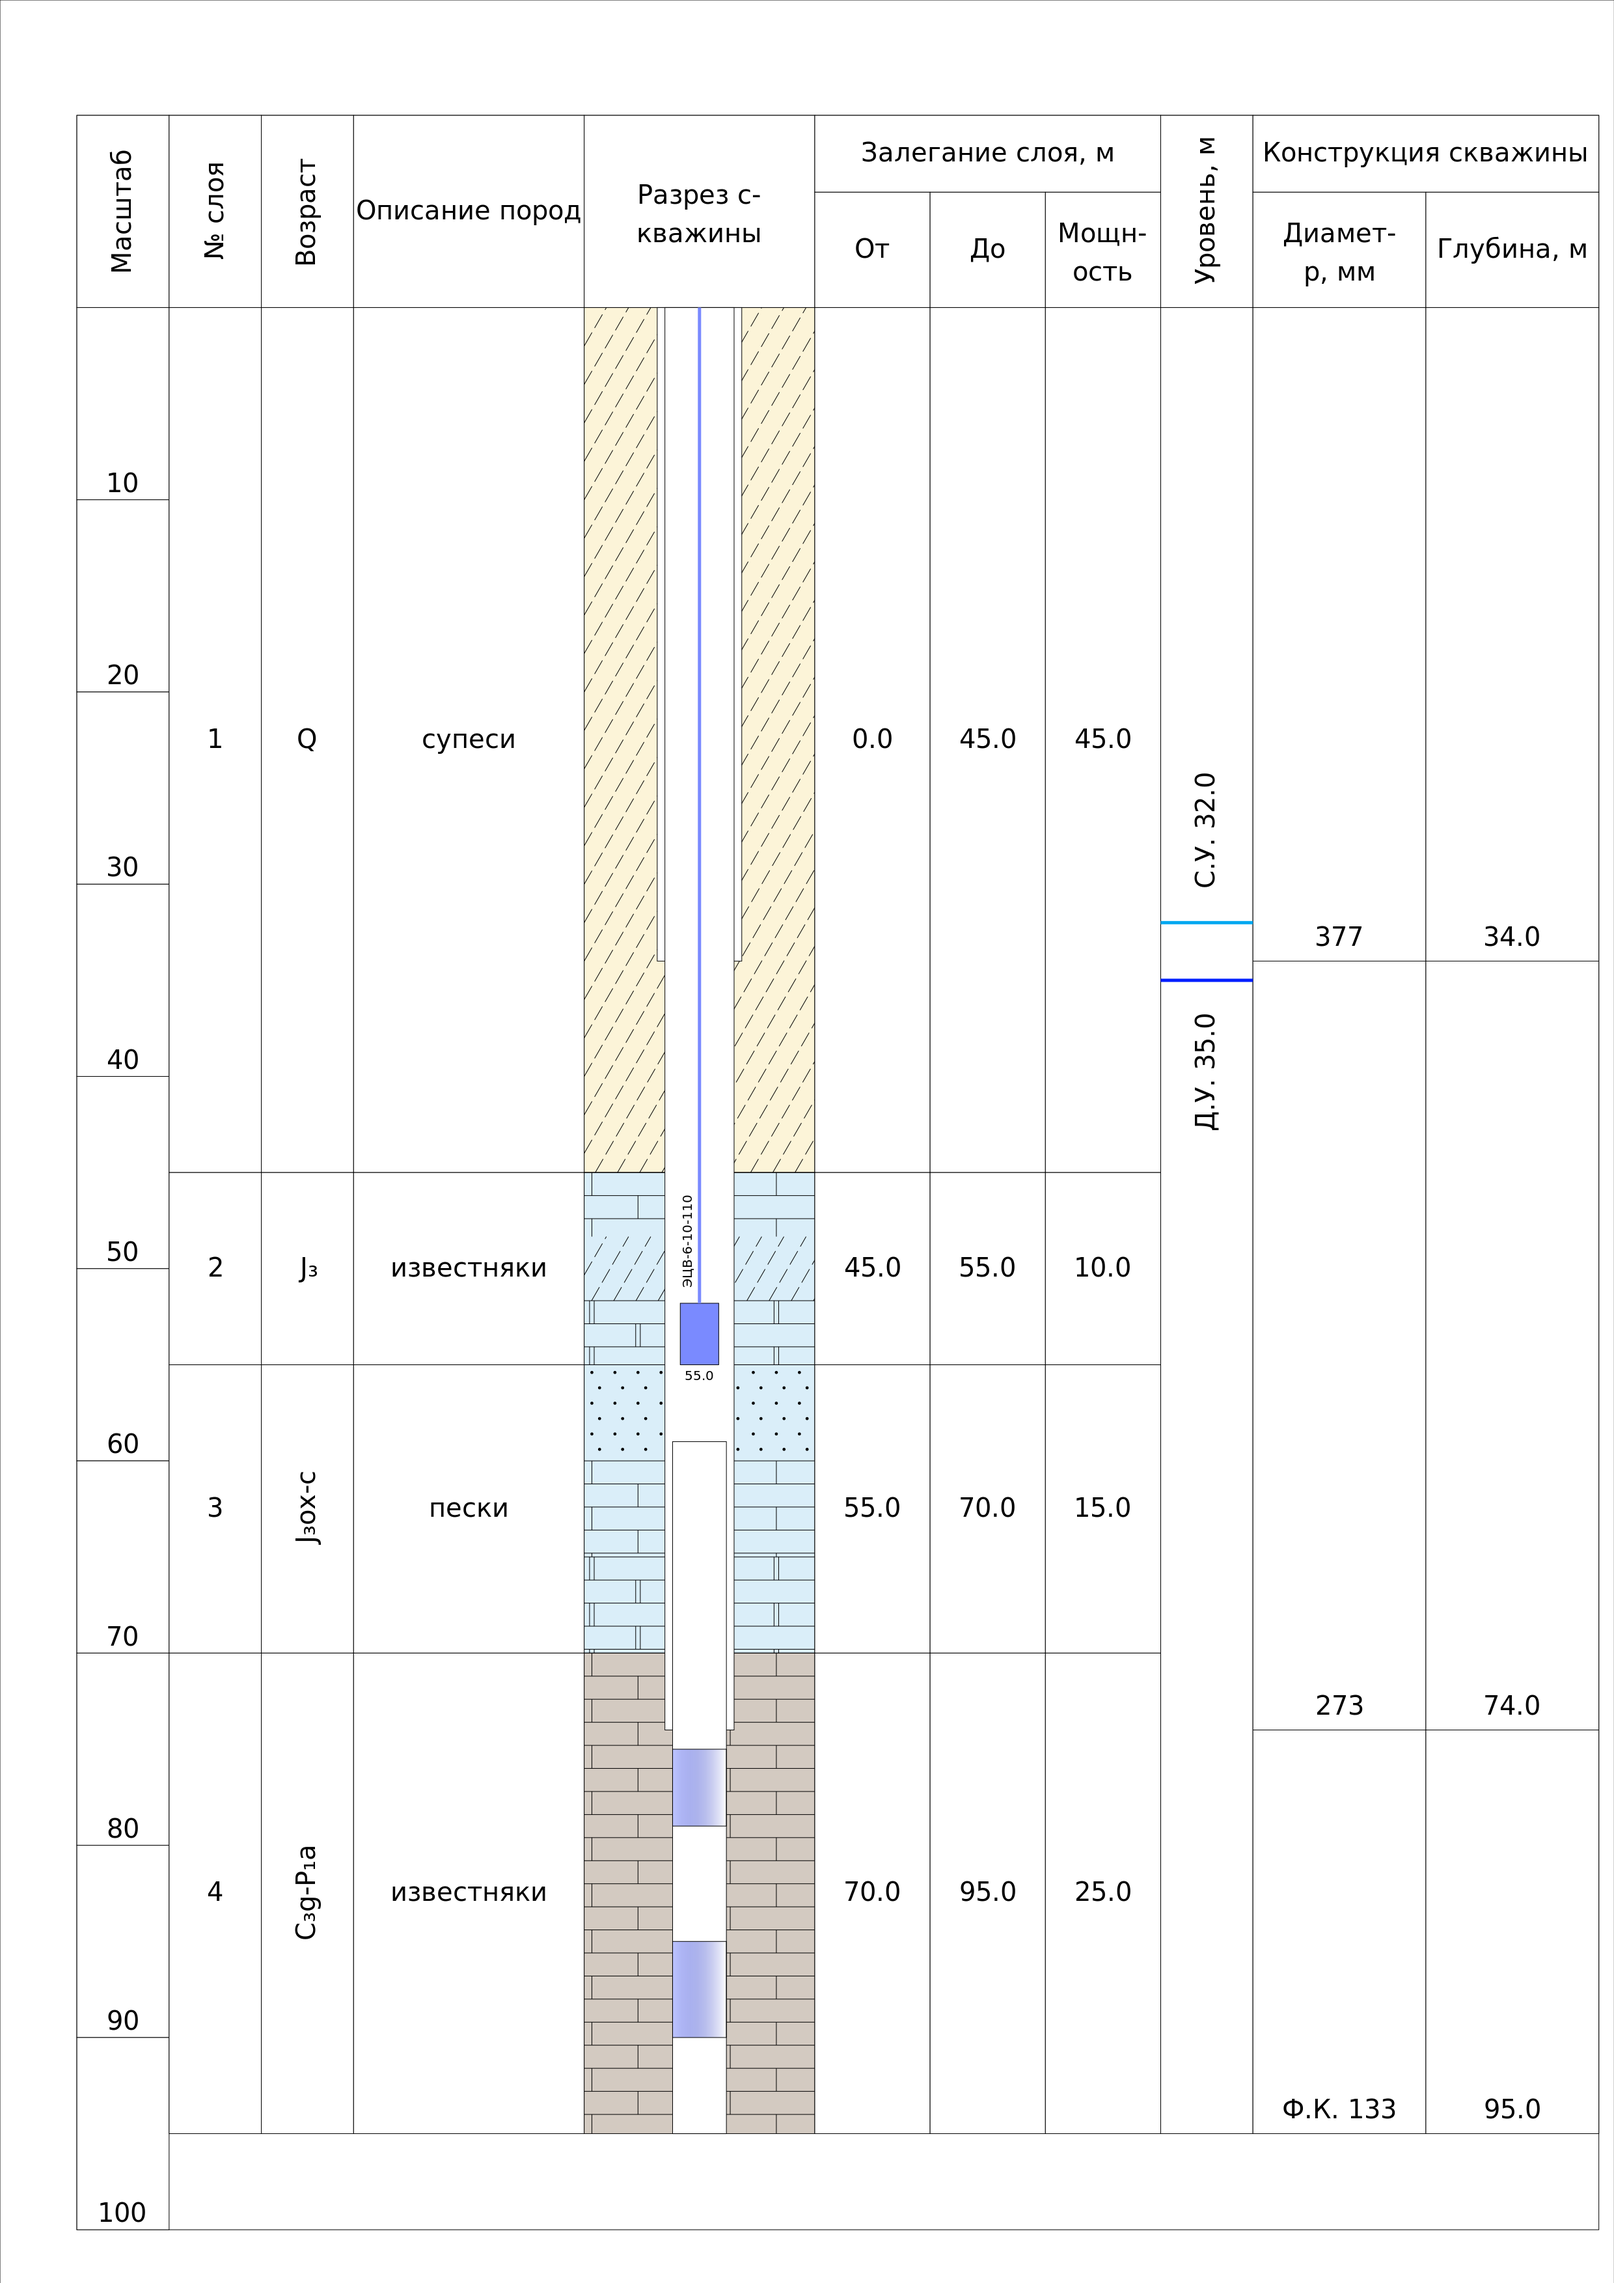
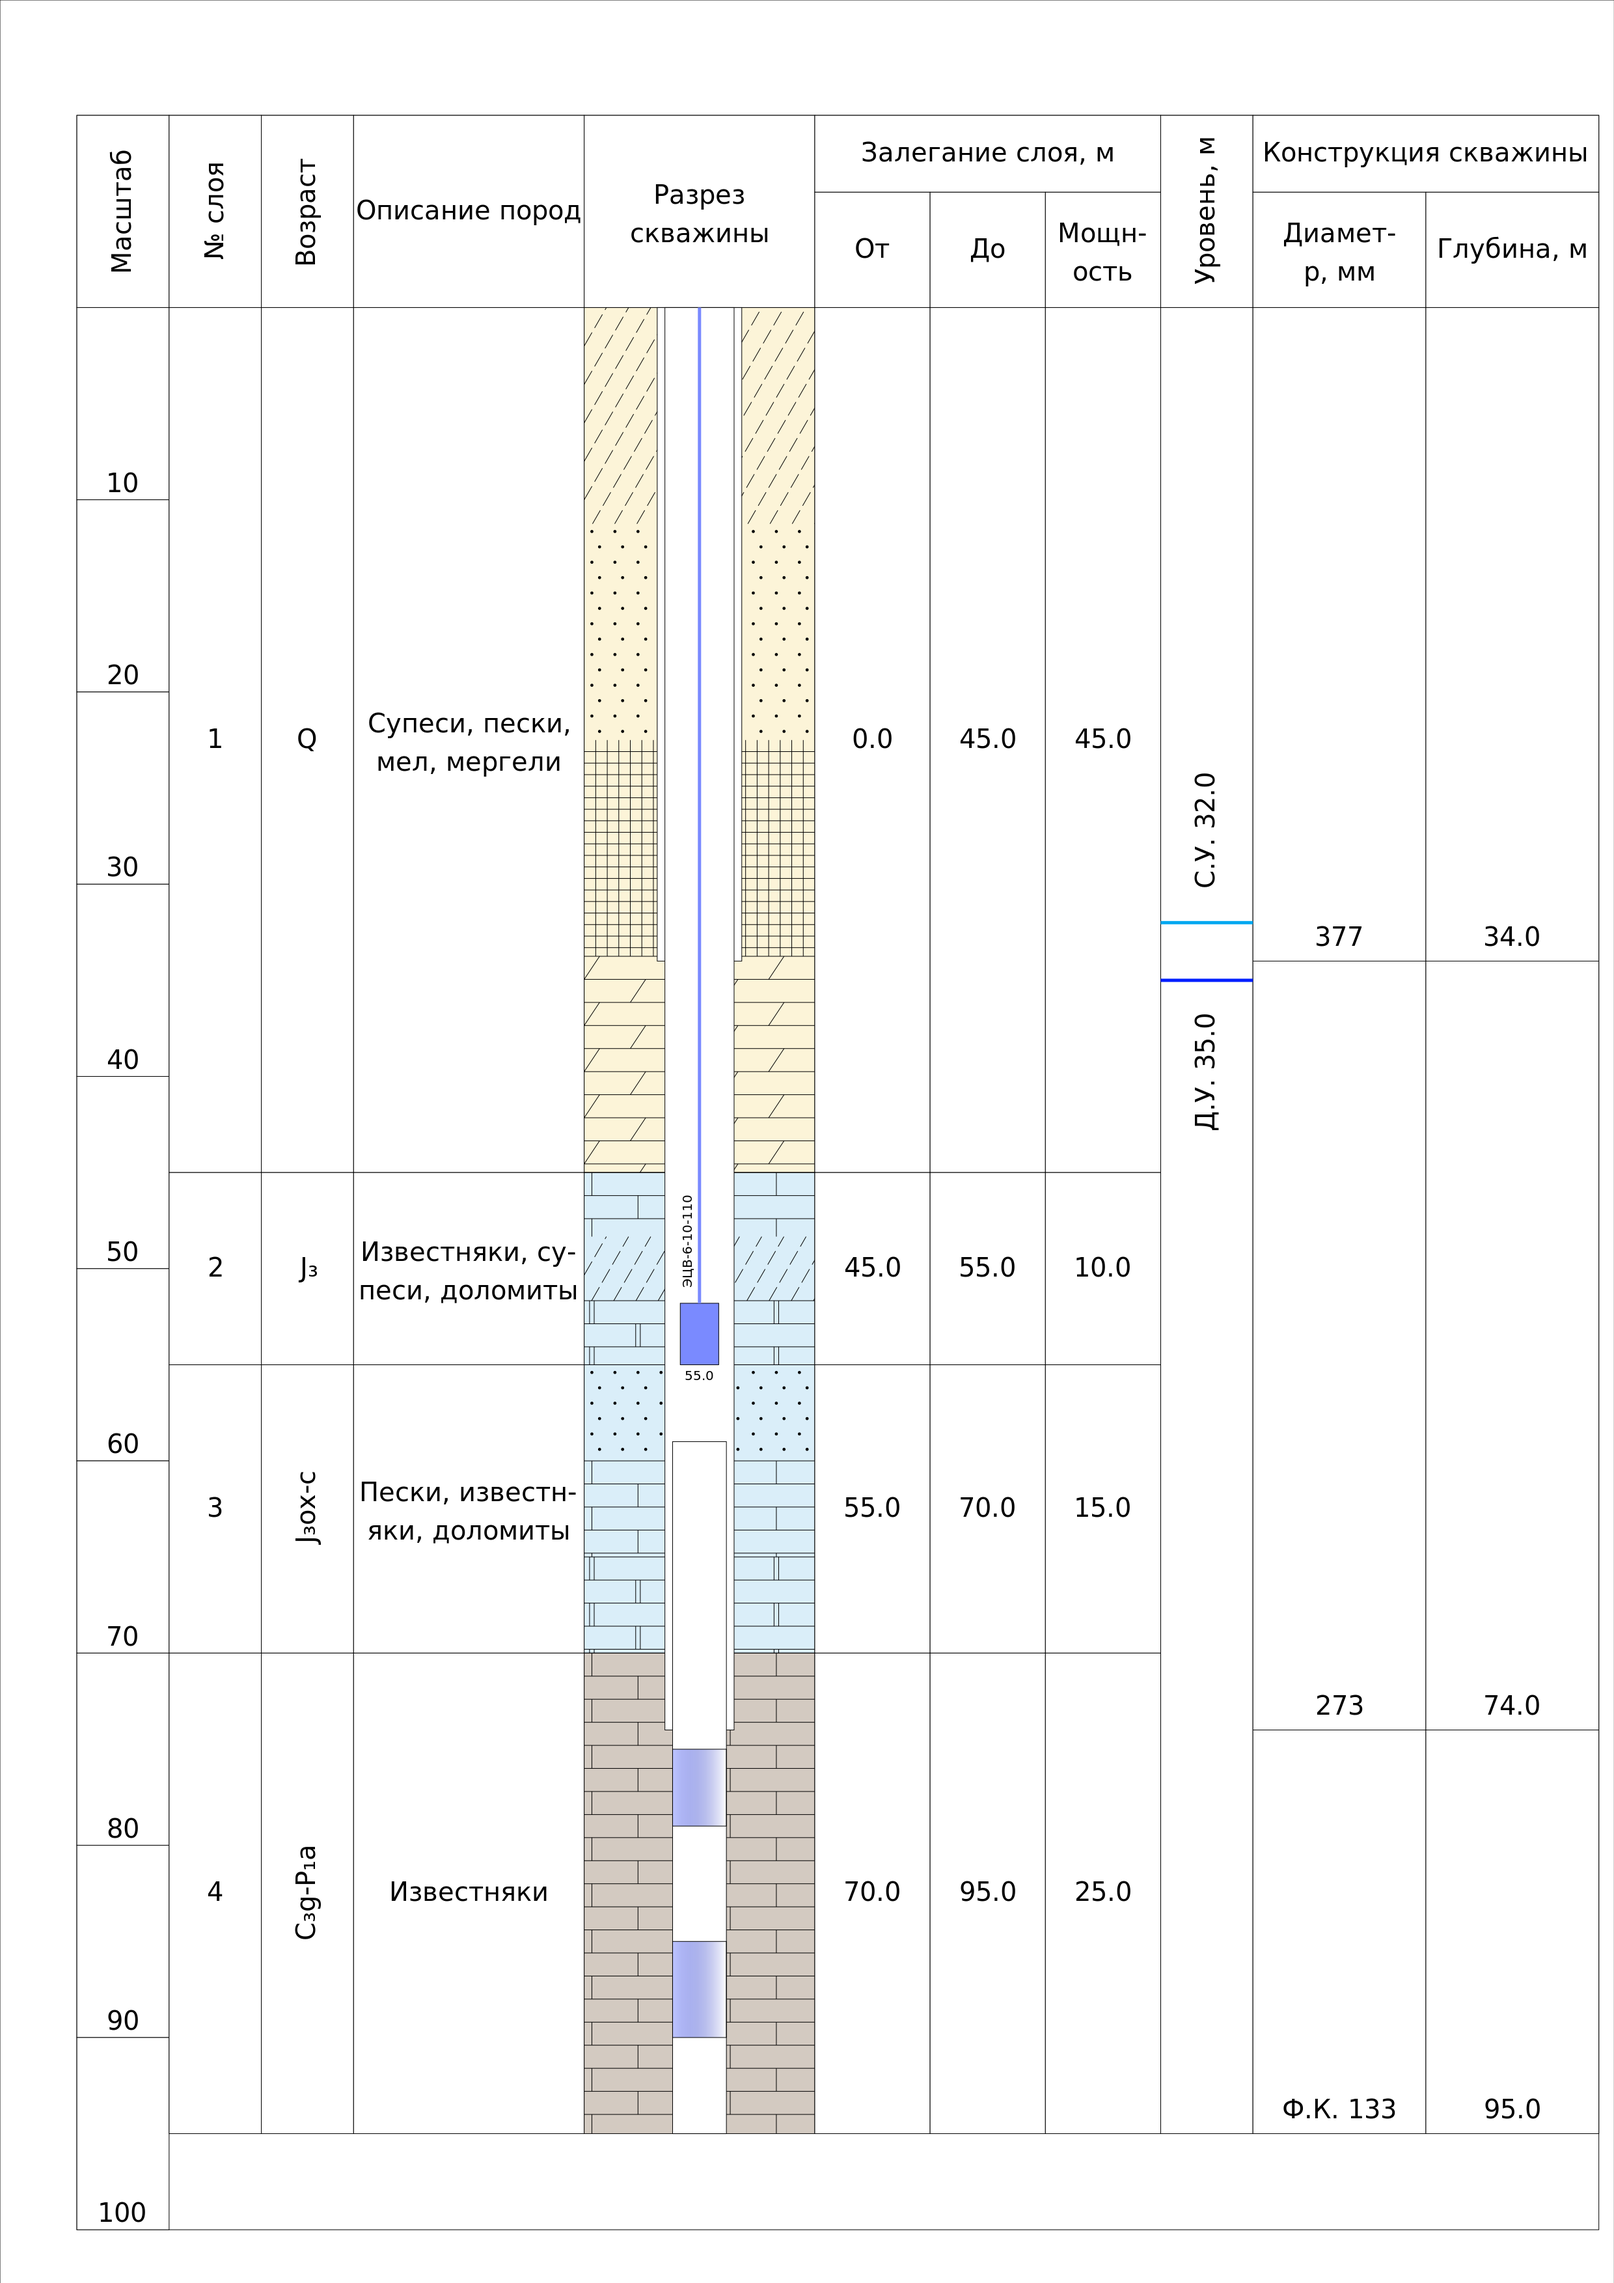
fix sediments description (text transfer) and text in header

diff --git a/drawing/main.py b/drawing/main.py
@@ -50,7 +50,7 @@ def header(d):
     rectangle(d, 22, 297-15, 12, -25, '№ слоя', 'v')
     rectangle(d, 34, 297-15, 12, -25, 'Возраст', 'v')
     rectangle(d, 46, 297-15, 30, -25, 'Описание пород', 'h')
-    rectangle(d, 76, 297-15, 30, -25, 'Разрез скважины', 'h')
+    rectangle(d, 76, 297-15, 30, -25, 'Разрез   скважины', 'h')
     rectangle(d, 106, 297-15, 45, -10, 'Залегание слоя, м', 'h')
     rectangle(d, 106, 297-25, 15, -15, 'От', 'h')
     rectangle(d, 121, 297-25, 15, -15, 'До', 'h')
@@ -131,9 +131,19 @@ def rectangle(d, x, y, x1, y1, text, direction):
                            (x+x1)*koef, (y+step+1)*koef,
                            close=False,
                            stroke='white')
-            insert = str(text[text_start_step:text_step]) + '-'
-            d.append(
-                draw.Text([insert], 40, path=p, text_anchor='middle'))
+            if str(text[text_step-1]) == ',':
+                insert = str(text[text_start_step:text_step])
+                d.append(
+                    draw.Text([insert], 40, path=p, text_anchor='middle'))
+            elif str(text[text_step-1]) == ' ':
+                insert = str(text[text_start_step:text_step])
+                d.append(
+                    draw.Text([insert], 40, path=p, text_anchor='middle'))
+            else:
+                insert = str(text[text_start_step:text_step]) + '-'
+                d.append(
+                    draw.Text([insert], 40, path=p, text_anchor='middle'))
+
             # смещение относительно первоначальной строки
             y += -5
             i += 1
@@ -173,9 +183,10 @@ def layers(d, well_depth, dt):
         rectangle(d, x_start, y_start, 12, -
                   data[i]['thick']*scale_m, data[i]['name'], direction)
         x_start += 12
-        # тут поправить, чтоб вместо кортежа сюда в текст приходила строка
+        # преобразование отложений из кортежа в строку для описания разреза
+        sediments_text = (', '.join(data[i]['sediments'])).capitalize()
         rectangle(d, x_start, y_start, 30, -
-                  data[i]['thick']*scale_m, data[i]['sediments'][0], 'h')
+                  data[i]['thick']*scale_m, sediments_text, 'h')
         x_start += 30
         layer_fill = colour(data[i]['name'])
         rectangle(d, x_start, y_start, 30, -
@@ -340,7 +351,7 @@ def well(d, well_dt):
 
 well_data = {
     'layers': {
-        1: {'id': 1, 'name': 'Q', 'thick': 45.0, 'sediments': ('супеси',)},
+        1: {'id': 1, 'name': 'Q', 'thick': 45.0, 'sediments': ('супеси', 'пески', 'мел', 'мергели')},
         2: {'id': 2, 'name': 'J\u2083', 'thick': 10, 'sediments': ('известняки', 'супеси', 'доломиты')},
         3: {'id': 3, 'name': 'J\u2083ox-c', 'thick': 15, 'sediments': ('пески', 'известняки', 'доломиты')},
         4: {'id': 4, 'name': 'C\u2083g-P\u2081a', 'thick': 25, 'sediments': ('известняки',)}
